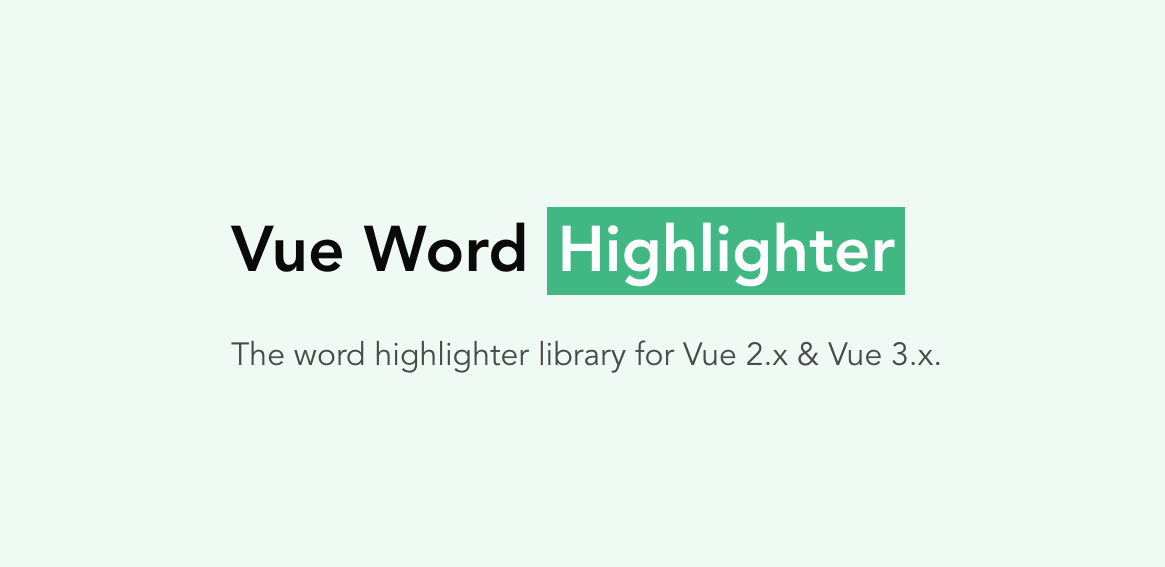
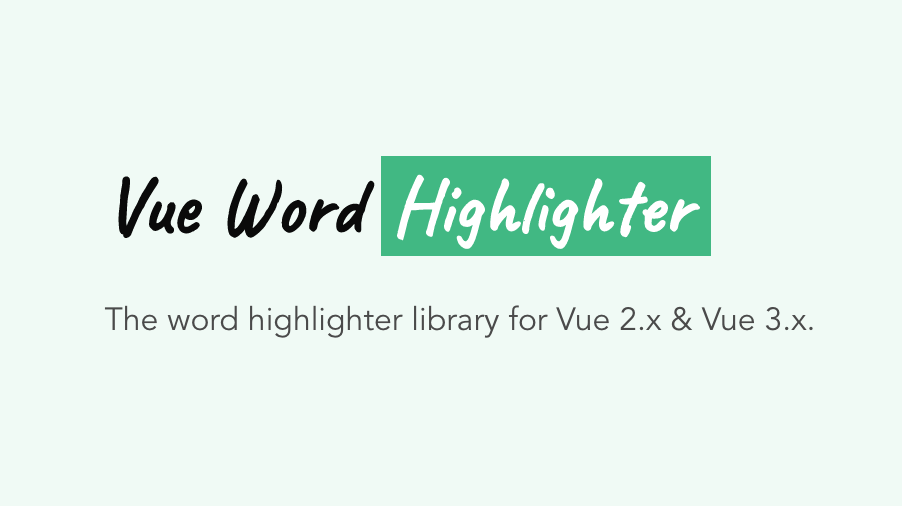
chore: fix README and change OGP image

Changed region(s): [[0.1242, 0.2964, 0.8071, 0.5336], [0.1242, 0.5929, 0.9002, 0.6818]]

diff --git a/README.md b/README.md
@@ -12,14 +12,14 @@ The word highlighter library for Vue 2.x & Vue 3.x 🖍
 
 ## Installation
 
-**Vue 3.x**
+### Vue 3.x
 ```bash
 yarn add vue-word-highlighter
 # or
 npm install vue-word-highlighter
 ```
 
-**Vue 2.x**  
+### Vue 2.x
 powered by [vue-demi](https://github.com/antfu/vue-demi).
 ```bash
 yarn add vue-word-highlighter @vue/composition-api
@@ -36,7 +36,7 @@ To use it, just provide it with a search words to props and a body of text to de
   <WordHighlighter
     query="vue"
   >
-    The word highlighter library for Vue 2.x & Vue 3.x 💅
+    The word highlighter library for Vue 2.x Vue 3.x 💅
   </WordHighlighter
   >
 </template>
